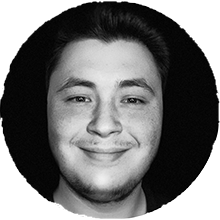
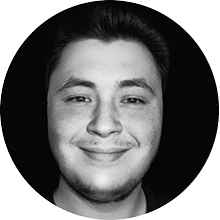
editat imagini traineri

diff --git a/trainers.html b/trainers.html
@@ -128,7 +128,7 @@
              </div>
              <div class="ml-2 mr-2">
                     <div class="card">
-                        <img src="trainers/trainer-catalin-rosu.png" class="card-img-top">
+                        <img src="trainers/trainer-catalin-rosu1.png" class="card-img-top">
                         <div class="card-body">
                             <h5 class="card-title">Catalin Rosu</h5>
                             <p>HTML,CSS &amp; JS in the Real World</p>
@@ -138,7 +138,7 @@
              </div>
              <div class="ml-2 mr-2">
                     <div class="card">
-                        <img src="trainers/caphyon-logo-circle.png" class="card-img-top">
+                        <img src="trainers/caphyon-logo-circle1.png" class="card-img-top">
                         <div class="card-body">
                             <h5 class="card-title">Ionut Enache</h5>
                             <p>Windows App Development with .NET WPF</p>
@@ -148,7 +148,7 @@
              </div>
              <div class="ml-2 mr-2">
                     <div class="card">
-                        <img src="trainers/caphyon-logo-circle.png" class="card-img-top">
+                        <img src="trainers/caphyon-logo-circle1.png" class="card-img-top">
                         <div class="card-body">
                             <h5 class="card-title">Horatiu Prica</h5>
                             <p>Windows App Development with .NET WPF</p>
@@ -158,7 +158,7 @@
              </div>  
              <div class="ml-2 mr-2">
                     <div class="card">
-                        <img src="trainers/nro-logo.jpg" class="card-img-top">
+                        <img src="trainers/nro-logo1.png" class="card-img-top">
                         <div class="card-body">
                             <h5 class="card-title">Gabriel Paunica</h5>
                             <p>REST In Node.JS At The React &amp; Angular SPA</p>
@@ -168,7 +168,7 @@
              </div> 
              <div class="ml-2 mr-2">
                     <div class="card">
-                        <img src="trainers/nro-logo.jpg" class="card-img-top">
+                        <img src="trainers/nro-logo1.png" class="card-img-top">
                         <div class="card-body">
                             <h5 class="card-title">Octavian Marculescu</h5>
                             <p>REST In Node.JS At The React &amp; Angular SPA</p>
@@ -178,7 +178,7 @@
              </div> 
              <div class="ml-2 mr-2">
                     <div class="card">
-                        <img src="trainers/nro-logo.jpg"  class="card-img-top">
+                        <img src="trainers/nro-logo1.png"  class="card-img-top">
                         <div class="card-body">
                             <h5 class="card-title">Cosmin Voicu</h5>
                             <p>REST In Node.JS At The React &amp; Angular SPA</p>
@@ -188,7 +188,7 @@
              </div>
              <div class="ml-2 mr-2">
                     <div class="card">
-                        <img src="trainers/trainer-zuica-andrei.png" class="card-img-top">
+                        <img src="trainers/trainer-zuica-andrei1.png" class="card-img-top">
                         <div class="card-body">
                             <h5 class="card-title">Andrei Zuica</h5>
                             <p>Java vs Python: Coding Deadmatch</p>
@@ -198,7 +198,7 @@
              </div>
              <div class="ml-2 mr-2">
                     <div class="card">
-                        <img src="trainers/trainer-diaconita.png" class="card-img-top">
+                        <img src="trainers/trainer-diaconita1.png" class="card-img-top">
                         <div class="card-body">
                             <h5 class="card-title">Gabriel Diaconita</h5>
                             <p>Coding Pro-Practices</p>
@@ -218,7 +218,7 @@
              </div>
              <div class="ml-2 mr-2">
                     <div class="card">
-                        <img src="trainers/trainer-telechi-nicolae.png" class="card-img-top">
+                        <img src="trainers/trainer-telechi-nicolae1.png" class="card-img-top">
                         <div class="card-body">
                             <h5 class="card-title"> Nicolae Telechi</h5>
                             <p>You&apos;ll Neversea Algorithms Like These</p>
@@ -228,7 +228,7 @@
              </div>
              <div class="ml-2 mr-2">
                     <div class="card">
-                        <img src="trainers/trainer-victor-ciura.png" class="card-img-top">
+                        <img src="trainers/trainer-victor-ciura1.png" class="card-img-top">
                         <div class="card-body">
                             <h5 class="card-title"> Victor Ciura </h5>
                             <p>Curry on Functional Programming</p>
